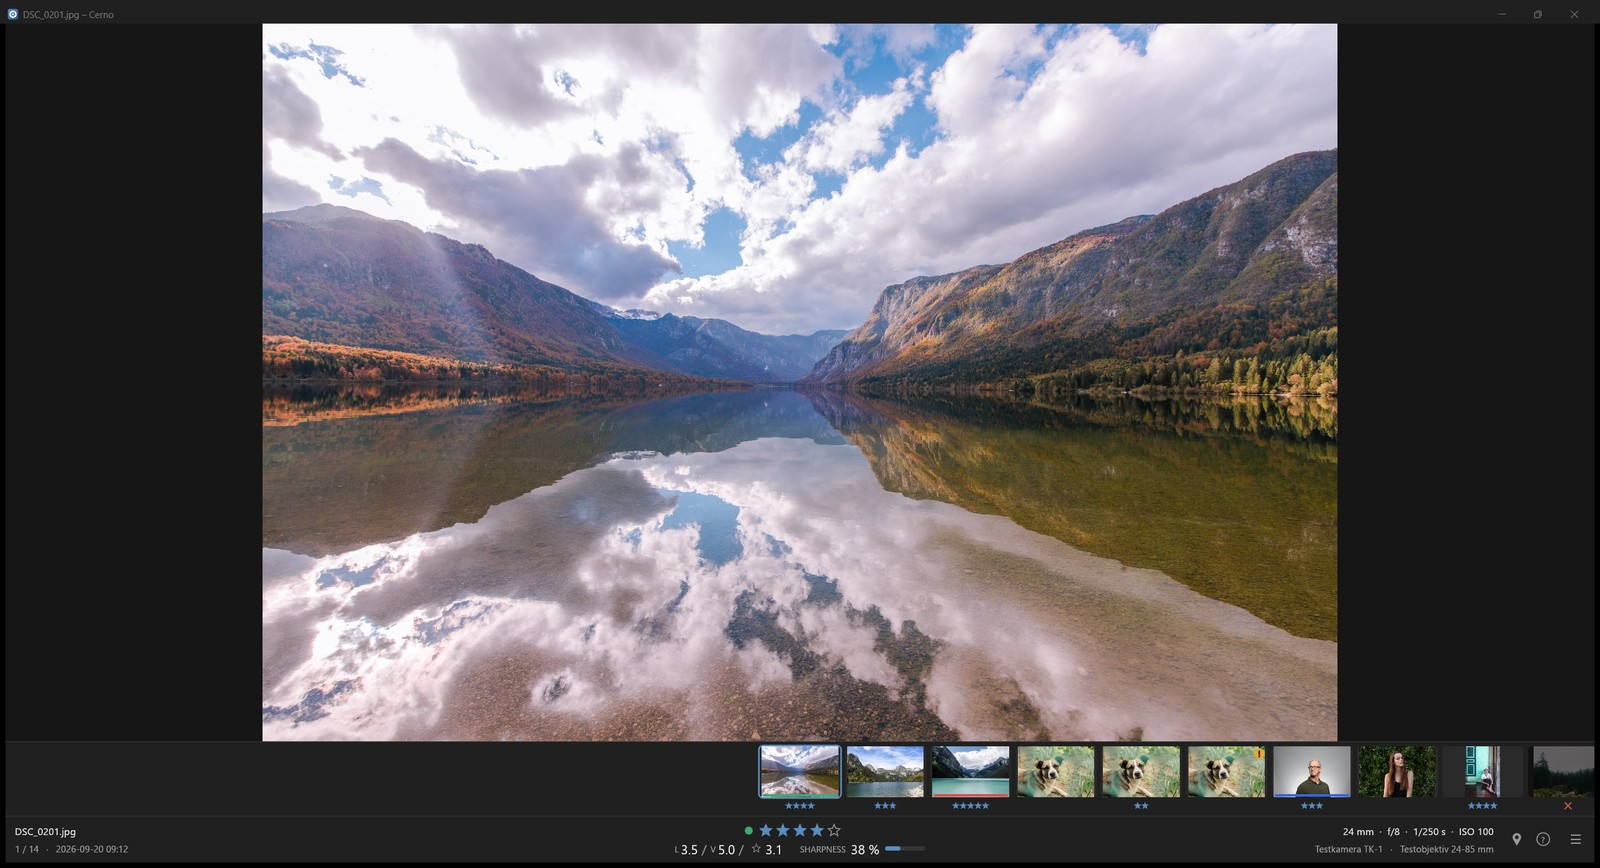
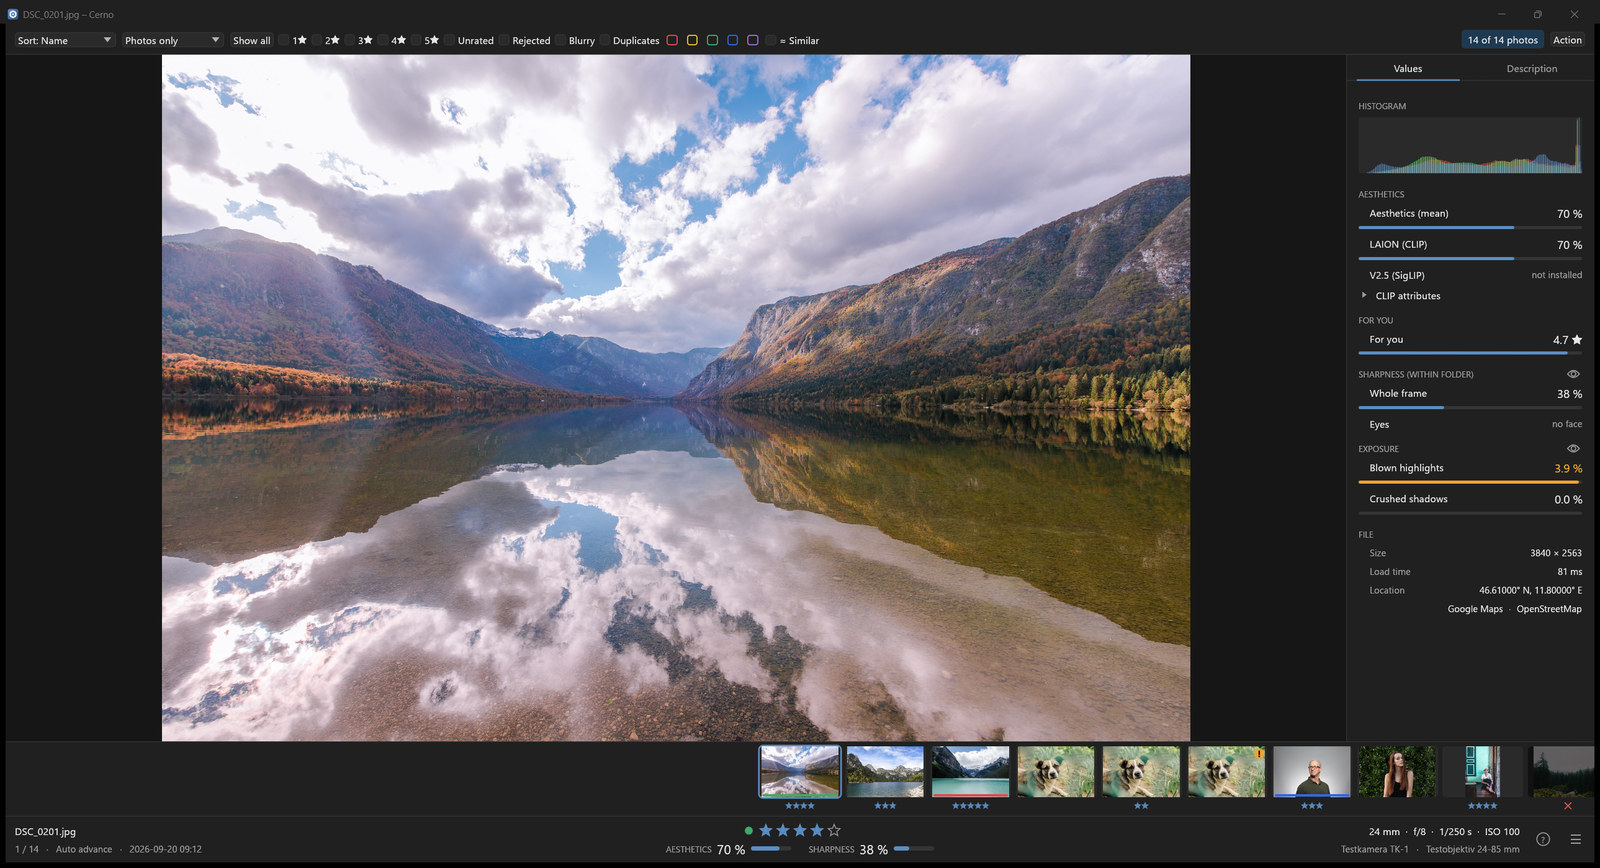
docs: changelog, project notes and a current README screenshot
The screenshot shows the current build with the filter bar and the
details panel.

diff --git a/CLAUDE.md b/CLAUDE.md
@@ -76,6 +76,7 @@ packaging/linux/build.sh           # dist/linux: cerno_<v>_amd64.deb, cerno_<v>_
 
 ```
 main.rs              eframe bootstrap (wgpu renderer), CLI path argument
+crashlog.rs          panic hook: every panic into `crash.log` in the data folder (release builds have no console), at most 50 KB – also the ones Cerno survives (`decode::catch_panic`: the hook runs before the unwind is caught)
 app/mod.rs           CernoApp: the state, start-up, one frame (`ui`), exit; each submodule adds the methods for one part:
 app/browse.rs        opening a folder, building the view (`rebuild_view` / `set_view`, `refresh_marks`), navigation
 app/marks.rs         stars, rejection, colour labels (session maps, then the writer)
@@ -259,6 +260,8 @@ packaging/linux/     build.sh (.deb, AppImage), AppRun, cerno.desktop
 - `Library::open` makes the path absolute first; the index keys files by their full path.
 - zune-jpeg decodes truncated JPEGs leniently (missing part grey) instead of failing – intended, other viewers do the same.
 - **The decoders allocate the whole frame before reading a pixel**, so a few hundred bytes with a patched header can ask for 12.9 GB (65 535²). `decode::check_size` reads the size first (JPEG `decode_headers`, HEIC the image handle) and refuses more than `MAX_PIXELS` (200 MP) – keep that check in front of any new decode path. With leniency the grey fill would otherwise "succeed" after gigabytes.
+- **`CernoApp::ui` lays out twice**: before `handle_keys` (its frames are the zoom keys' geometry) and again after it. A key can empty the view – a mark takes the last photo a filter showed, `Delete` the only photo – and the bars of the first layout then drew cells of photos that were gone: `view.paths[0]` panicked and Cerno ended (exit 101, no Windows event; 1.0–1.3.1). `filmstrip::visible_range` is empty for an empty view as a second guard.
+- **The crop gesture is decided at the press**: `ui::edit::pointer_area` senses drags only, so the drag starts on the press, and `drag_start` returns the press origin. With `Sense::click_and_drag` egui starts a drag only after 6 pt and reports the pointer's new place; a quick pull from a corner was hit-tested inside and became a move – of a first frame that covers the photo and can't move. A frame that can't slide (`Crop::can_move`) draws a new frame when dragged inside.
 - Decode jobs run inside `decode::catch_panic` (loader display and full size, `analyze`, the straighten/crop render): a panicking decoder crate becomes an error for that photo instead of ending the worker thread for the session. This relies on `panic = "unwind"` – never set `panic = "abort"` in a profile.
 - **HEIC on Windows is dynamically linked** (vcpkg triplet `x64-windows`, `VCPKGRS_DYNAMIC=1` in `.cargo/config.toml`). `libheif` and `libde265` are LGPL-3.0; `build.rs` copies their DLLs and `licenses/` next to the executable. Do not switch the triplet back to `x64-windows-static-md`. The x265 encoder (GPL) stays excluded via `libheif[core]`. Linux links the system libheif; a package depends on the distro library instead of bundling a static copy. ExifTool stays a separate program and is not distributed. The V2.5 head (AGPL-3.0) stays out of the binary.
 - The only `rfd` dialogs left are the folder pickers (open, copy / move target) and the program picker of Edit elsewhere; they block the UI thread while open – fine for modal dialogs. Confirmations are `ui/confirm.rs`.

diff --git a/CHANGELOG.md b/CHANGELOG.md
@@ -7,6 +7,20 @@ Format follows [Keep a Changelog](https://keepachangelog.com/en/1.0.0/), version
 
 ## [Unreleased]
 
+### Fixed
+
+- **No more crash when a mark empties the filter** – rating, rejecting, labelling or deleting the last photo a filter showed (for example `0` on the last 2-star photo with *2★* ticked, or `Delete` on the only photo of a folder) ended Cerno. The bars were laid out for the photo that had just left the view. Grid view and stars clicked in the info bar were not affected.
+- **The crop frame can be moved and resized** – the first frame is the whole photo, so it had nowhere to move; a drag inside it now draws a new frame. A quick pull from a corner was taken for a move (the drag was decided only after 6 pt of movement); it is now decided where the button goes down, and the corners take the pointer from 16 pt away.
+- *For you* could stop updating for the rest of the session when the retraining delay ran out at an unlucky moment.
+
+### Added
+
+- **`crash.log`** – a crash is written to `crash.log` in the data folder (thread, place, version; at most 50 KB), since the installed program has no console where the message would show.
+
+### Changed
+
+- The README screenshot shows the current build with the filter bar and the details panel.
+
 ## [1.3.1] – 2026-10-01
 
 Sharper photos: what you see in the window and at 100 % is now exactly the photo, pixel for pixel.

diff --git a/README.md b/README.md
@@ -9,7 +9,7 @@
 Cerno (Latin *cerno* – "I sift, see clearly") helps you go through a folder of photos quickly and keep the good ones. Stars, colour labels, comments and keywords go straight into the file, where Lightroom, Bridge, digiKam and Windows Explorer find them – the file's dates stay exactly as they were. Everything runs on your computer.
 
 <p align="center">
-  <img src="./screenshots/cerno-main.jpg" alt="Cerno showing a photo with the filmstrip and the info bar" width="720" />
+  <img src="./screenshots/cerno-main.jpg" alt="Cerno showing a photo with the filter bar, the details panel, the filmstrip and the info bar" width="720" />
 </p>
 
 <sub>Sample photo: CC0 (public domain), [Images from Unsplash](https://commons.wikimedia.org/wiki/Category:Images_from_Unsplash) on Wikimedia Commons.</sub>
